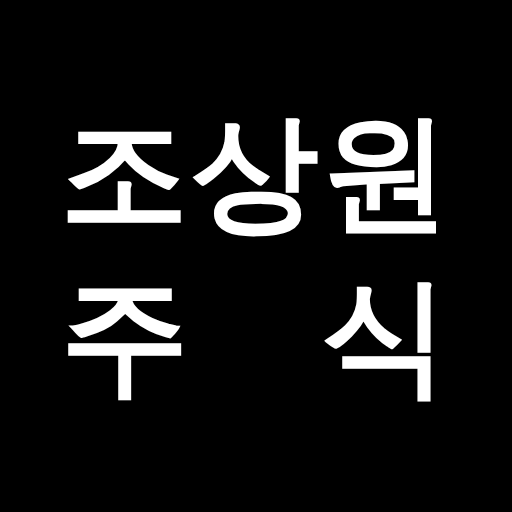
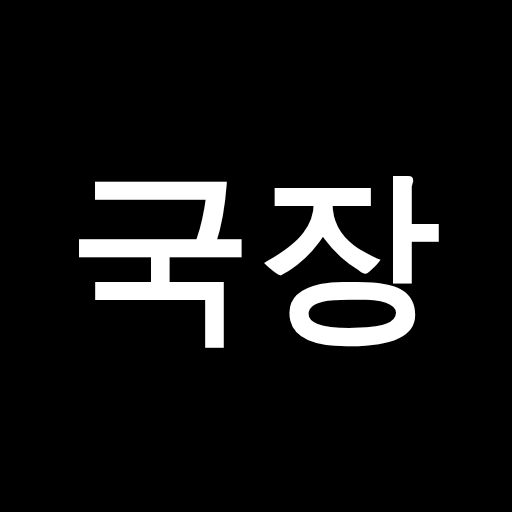
스크리너 결과 업데이트 94c8177c7df62805337833bf2e8db9ff64dfd382

Changed region(s): [[0.125, 0.2188, 0.875, 0.8125]]

diff --git a/index.html b/index.html
@@ -3,11 +3,11 @@
 <head>
 <meta charset="utf-8">
 <meta name="viewport" content="width=device-width, initial-scale=1">
-<title>조상원 주식</title>
+<title>국장</title>
 <meta name="theme-color" content="#000000">
 <meta name="apple-mobile-web-app-capable" content="yes">
 <meta name="mobile-web-app-capable" content="yes">
-<meta name="apple-mobile-web-app-title" content="조상원 주식">
+<meta name="apple-mobile-web-app-title" content="국장">
 <meta name="apple-mobile-web-app-status-bar-style" content="black">
 <link rel="manifest" href="manifest.json">
 <link rel="icon" type="image/png" href="favicon.png">
@@ -16,7 +16,7 @@
 </head>
 <body>
 <header class="wrap">
-  <h1><img src="favicon.png" alt="" class="logo">조상원 주식</h1>
+  <h1><img src="favicon.png" alt="" class="logo">국장</h1>
   <p class="sub">과거 데이터로 검증한 기준(가치·모멘텀·저변동)으로 코스피·코스닥 종목을 점수화하고 10종목 보유 목록을 관리합니다. 평일 오전·오후 자동 분석.</p>
   <div class="bar">
     <label>분석 시점
